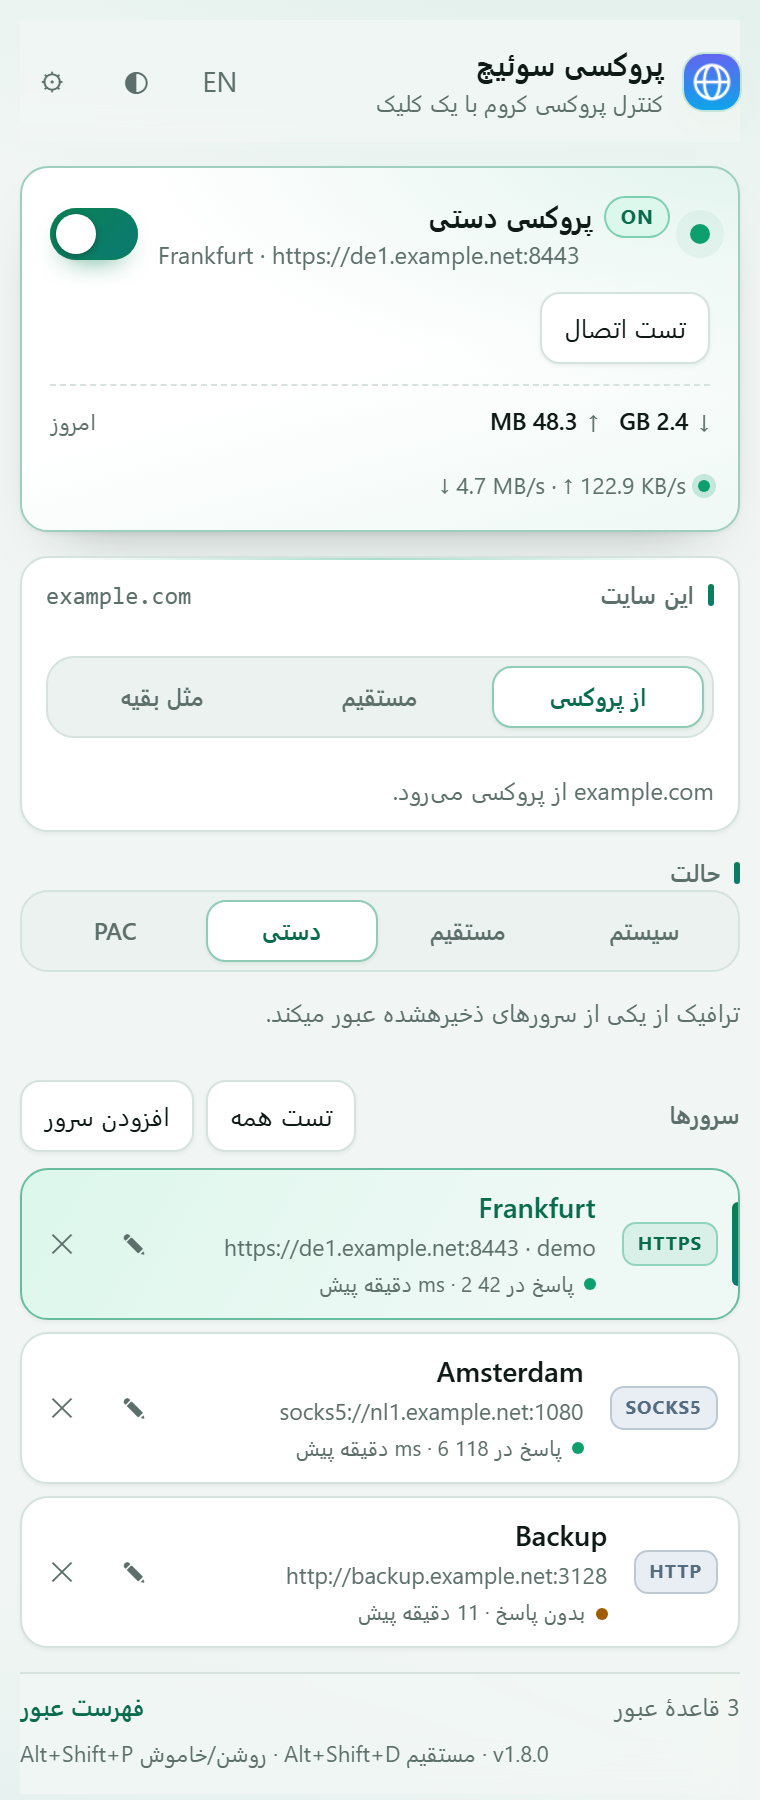
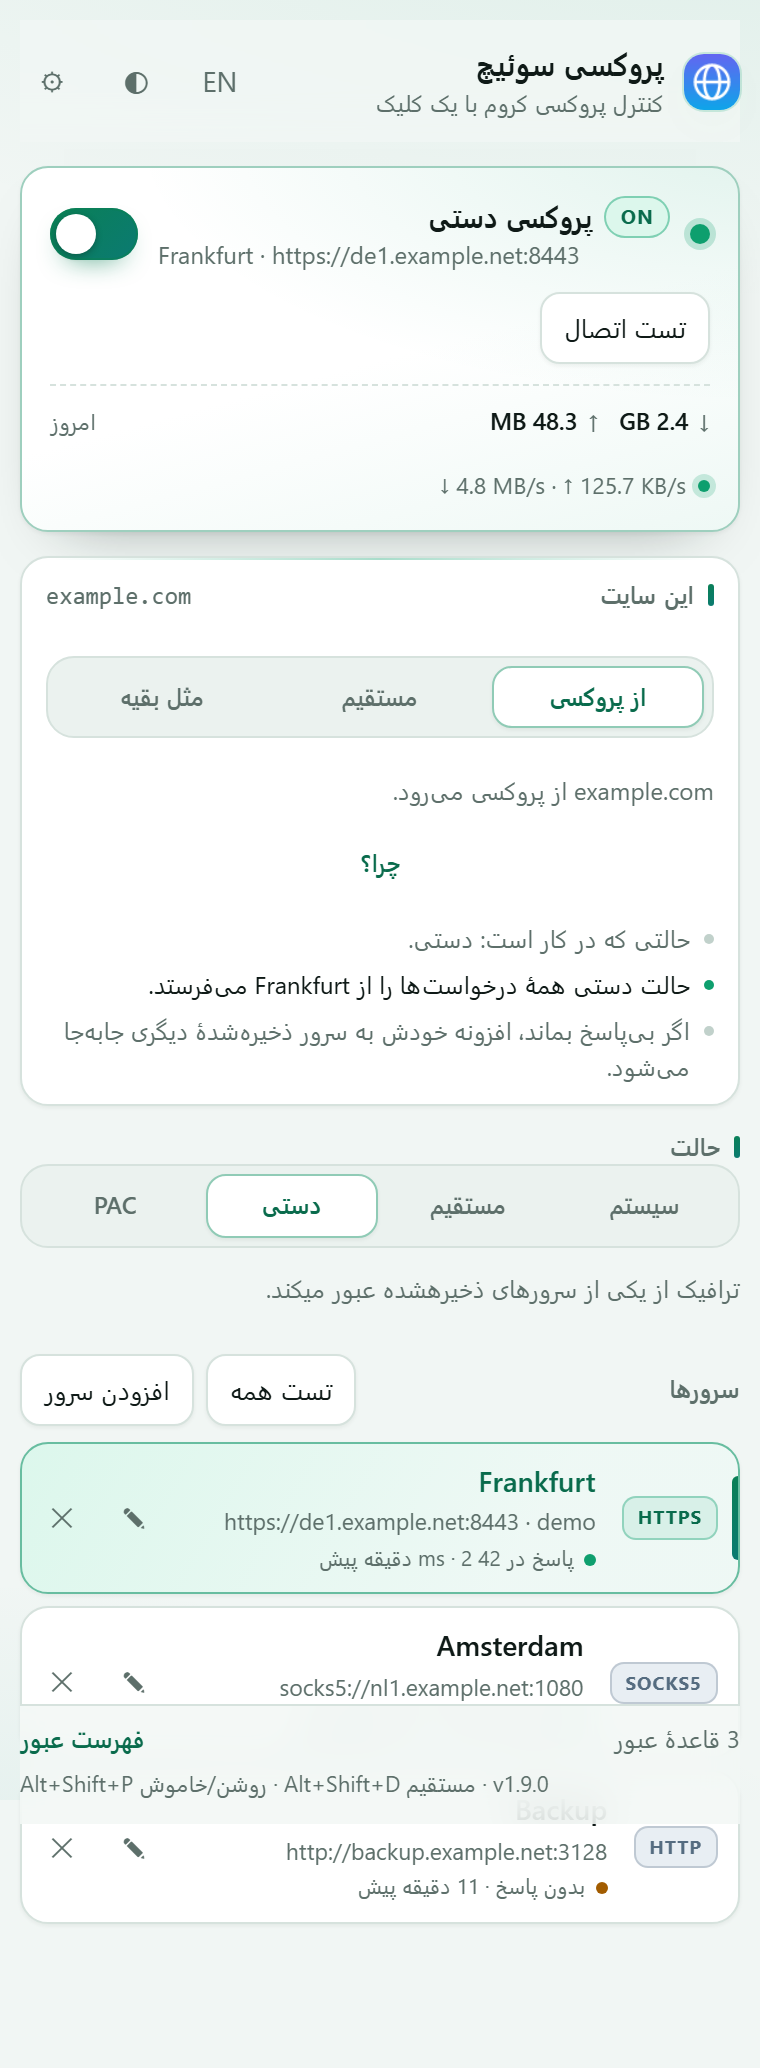
Release v1.9.0: a route check, a never-go-direct switch, and pictures of both
Three things are unreleased: the settings page can be asked why a host goes
where it does, the popup says the same behind a Why? line, and a mode whose
route cannot be built can now refuse the request instead of going direct. This
moves them under 1.9.0 and bumps the manifest, the package and the preview stub
together, so the tag and the release workflow agree on the version.

The README says the version in its pictures is the version it documents, so the
pictures were retaken through the same tool: the settings one now has a host
typed into the route check (a subdomain of a listed site, which is the question
a rule list leaves you with) and the popup one shows the explanation opened.

Generated with Codebuff 🤖

diff --git a/src/__preview_chrome_stub.js b/src/__preview_chrome_stub.js
@@ -10,7 +10,7 @@
   if (globalThis.chrome?.storage) return;
 
   // kept in sync with manifest.json by tests/manifest.test.mjs
-  var VERSION = '1.8.0';
+  var VERSION = '1.9.0';
   var DATA_KEY = 'proxySwitch.preview.data';
   var PROXY_KEY = 'proxySwitch.preview.proxy';
 

diff --git a/CHANGELOG.md b/CHANGELOG.md
@@ -6,6 +6,10 @@ The format follows [Keep a Changelog](https://keepachangelog.com/en/1.1.0/) and 
 
 ## [Unreleased]
 
+Nothing yet.
+
+## [1.9.0] — 2026-10-01
+
 ### Added
 
 - **A route check: why a host goes where it does.** The settings page's domain-routing panel takes
@@ -101,6 +105,7 @@ The format follows [Keep a Changelog](https://keepachangelog.com/en/1.1.0/) and 
   (`batchSpan()` in `lib/traffic.js`). A burst therefore reads the rate it really ran at, and goes
   quiet a few seconds after it ends rather than when the writer got around to it.
 
+[1.9.0]: ../../releases/tag/v1.9.0
 [1.8.0]: ../../releases/tag/v1.8.0
 [1.7.0]: ../../releases/tag/v1.7.0
 
